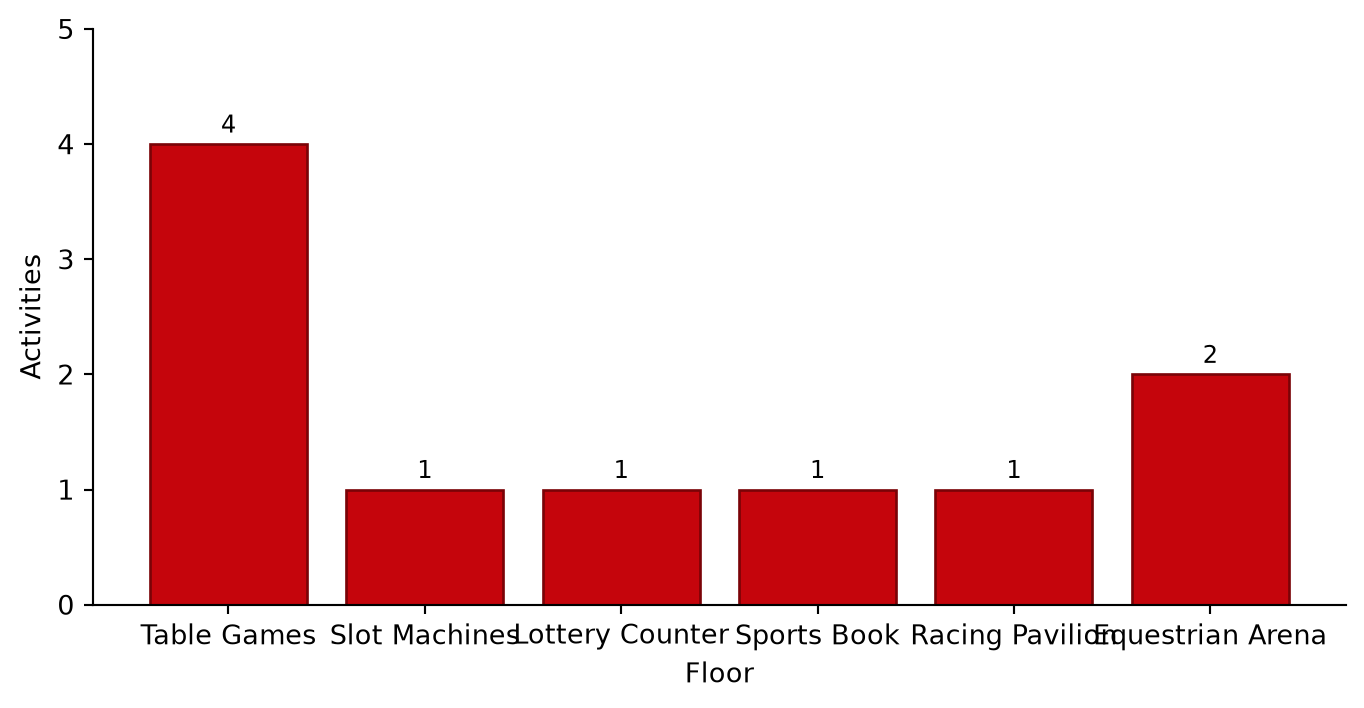
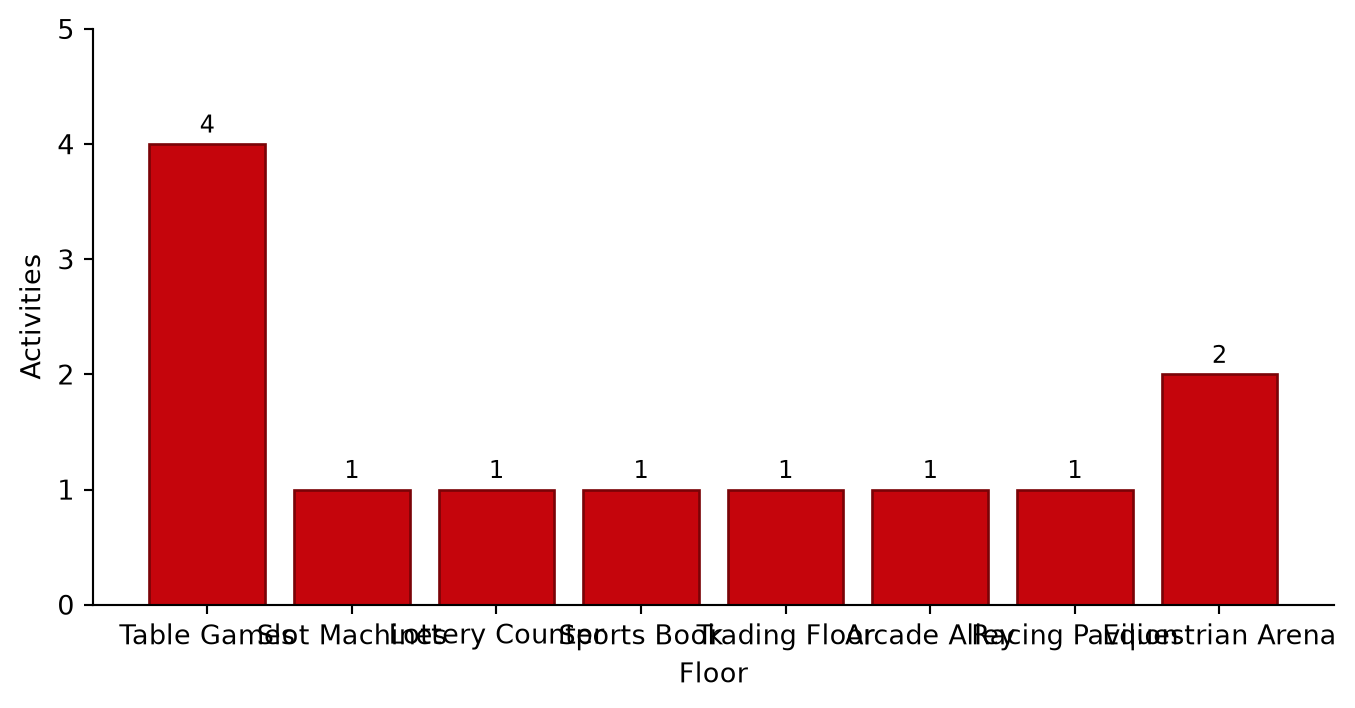
docs: parity pass for Arcade Alley, eight floors, and VIP amenities
Align wiki/docs/Quarto/README with FLOOR_ORDER (eight floors / twelve
activities), add Arcade-Alley wiki page, wire arcade into Quarto, and
document Gentleman's Club, balcony POV, and Phase 8 history. Refresh the
update-docs-parity skill audit for the new catalog.

diff --git a/README.md b/README.md
@@ -41,7 +41,7 @@ python3 -m pytest -v                     # 200+ tests
 
 ### Casino floor
 
-Seven floors, eleven activities, one chip wallet:
+Eight floors, twelve activities, one chip wallet:
 
 | Floor | Activities | Min bet |
 |-------|------------|---------|
@@ -50,6 +50,7 @@ Seven floors, eleven activities, one chip wallet:
 | **Lottery Counter** | Pick 3/4, Mega/Powerball, premium scratchers | Varies (stake-scaled) |
 | **Sports Book** | Scenario board, parlays/futures + prediction markets | 10 chips |
 | **Trading Floor** | Futures & call/put options (NYSE, commodities, crypto) | 25 chips |
+| **Arcade Alley** | CRT cabinets — Strip Cross, Neon Invaders, Breakout, Showgirl Beat | 5 chips |
 | **Racing Pavilion** | Mandalay Racing (thoroughbred sim) | 5 chips |
 | **Equestrian Arena** | Dressage & show jumping | 10 chips |
 
@@ -62,7 +63,7 @@ Beyond the gaming pits:
 - **Cashier** — Buy chips, cash out to your off-strip bank account, view the floor ledger
 - **Off-Strip Bank Account** — Park winnings outside the cage; fund trips from outside income
 - **Staff Manifest** — Editable dealer roster with session overrides
-- **High Limit salon & Foundation Room** — Chip- and tier-gated VIP venues (web)
+- **High Limit salon, Foundation Room & Gentleman's Club** — Chip- and tier-gated VIP venues (web + RPG; Velvet Ledger also on CLI)
 
 ### Resort hotel
 
@@ -70,7 +71,8 @@ Exit the casino floor to the **Mandalay Bay Hotel Experience**:
 
 - **Clerk Carmen** at the front desk — locate reservations, settle overdue charges, upgrade rooms, review folios, checkout, resort dining
 - **Hallway mini-game** — three beats of directional choices to reach your door
-- **In-room amenities** — TV (Shark Reef ch. 47, wave pool cam), sensor-enabled minibar, unlimited foreign calls, balcony decisions, 17 unlockable Vegas vignettes
+- **In-room amenities** — TV (Shark Reef ch. 47, wave pool cam), sensor-enabled minibar, unlimited foreign calls, balcony decisions / suite balcony POV smoke-break, 17 unlockable Vegas vignettes
+- **Gentleman's Club — The Velvet Ledger** — Gold+ / suite key / club phone line; tip storms, stocked bar, minigames, ledger eggs
 - **Guest Directory** — leather-bound lobby guest book with persistent signatures
 - **Real-time day/night cycle** — 2 hours real time = 1 in-game day; daily room/resort/parking charges; rotating check-in requirements (phone, desk, both, or whale net-positive)
 - **MGM Rewards phone** — press **P** in the web app for tier status, comps, reservation locate, and textable staff contacts
@@ -180,6 +182,7 @@ Full docs in [`docs/`](docs/README.md) and on the **[GitHub Wiki](https://github
 | [Lottery](docs/lottery.md) | Pick 3/4, Mega/Powerball, premium scratchers |
 | [Sports Book](docs/sportsbook.md) | Scenario board, parlays, prediction markets |
 | [Trading Floor](docs/trading-floor.md) | Futures & options (NYSE, commodities, crypto) |
+| [Arcade Alley](docs/arcade.md) | CRT cabinets — Strip Cross, Invaders, Breakout, rhythm |
 | [Racing](docs/racing.md) | Thoroughbred + equestrian |
 | [Hotel](docs/hotel.md) / [Pool](docs/pool-complex.md) / [Rewards](docs/mgm-rewards.md) | Resort off the floor |
 | [Architecture](docs/architecture.md) | Packages, data flow, activity system |

diff --git a/wiki/Resort-Hotel.md b/wiki/Resort-Hotel.md
@@ -20,10 +20,11 @@ MGM Rewards tier comps can cover upgrades and room nights. See [[MGM-Rewards|MGM
 
 ## Hotel flow
 
-1. **Front desk (Clerk Carmen)** — locate reservation, settle overdue charges, upgrade rooms, review folios, checkout, **resort dining**
+1. **Front desk (Clerk Carmen)** — locate reservation, settle overdue charges, upgrade rooms, review folios, checkout, **resort dining**. Carmen's desk terminal can complete check-in for phone-only, desk-only, or two-step days (whale days still need a net-positive floor session).
 2. **Room key** — activates as soon as the day's check-in requirement is satisfied, whether the phone or the desk finished it; the desk then offers your hallway or your door directly
-3. **Hallway mini-game** — three beats of directional choices to reach your door (wrong turns are comedic; a dining food coma forces one zig)
-4. **Your room** — TV, minibar, phone, balcony decisions, unlockable Vegas vignettes
+3. **Hallway mini-game** — three beats of directional choices to reach your door (wrong turns are comedic; a dining food coma forces one zig). Reaching the door sets `reachedRoom` and unlocks in-room amenities
+4. **Gentleman's Club — The Velvet Ledger** — opens from Gold+, a suite key, or the club phone line (hotel lobby / amenities)
+5. **Your room** — TV, minibar, phone, balcony decisions, unlockable Vegas vignettes. Foundation Room phone line unlocks from a suite or penthouse (Noir+)
 
 ## Resort dining
 
@@ -37,8 +38,14 @@ Carmen books the three tables that matter: **Aureole**, **Border Grill**, and **
 |---------|------------|
 | **TV** | Shark Reef (ch. 47), wave pool cam, ULTRA Arena boxing, House of Blues (Gold+ tier) |
 | **Minibar** | Sensor-enabled charges; concierge suggests items |
-| **Phone** | Concierge, bookie, Foundation Room (Noir+), spa, Delano |
+| **Phone** | Concierge, bookie, Foundation Room (Noir+), Gentleman's Club / Velvet Ledger (Gold+), spa, Delano |
+| **Gentleman's Club** | Hotel lobby amenity — make it rain, encounters, stocked bar, Tip Cascade / Bottle Memory / Felt Flip, ledger eggs |
+| **Suite balcony POV** | Fullscreen Strip vista smoke-break overlay (suite/penthouse) — take hits, savor the view, step inside |
 | **Decisions** | Balcony, sky bridge to Mandalay Place, suite/penthouse perks, wake-up roulette |
+
+### Suite balcony POV smoke break
+
+From a **Panorama Suite** or **Chairman Penthouse**, stepping onto the balcony opens a fullscreen first-person Strip overlook (haze advances with each hit; step inside to close). Overlay: `docs/js/BalconySmokeOverlay.js`.
 
 ### Unlockable vignettes
 

diff --git a/.cursor/skills/update-docs-parity/SKILL.md b/.cursor/skills/update-docs-parity/SKILL.md
@@ -37,15 +37,15 @@ Topic map and stale-phrase greps: [`reference.md`](reference.md).
 Use these unless code proves otherwise:
 
 1. **Identity:** Full **resort simulator** (CLI + web terminal + pixel RPG) — never “digital casino CLI only.”
-2. **Casino floor:** Match [`mandalay_bay/activities/registry.py`](../../../mandalay_bay/activities/registry.py) `FLOOR_ORDER` / `ALL_ACTIVITIES`. Current: **seven floors, eleven activities** — Table Games (blackjack, Hold'em, roulette, craps), slots, lottery, sports book (+ prediction markets), **Trading Floor**, racing, equestrian.
-3. **Off-floor:** Hotel, resort dining (capacity overlay), pool complex, MGM Rewards, amenities/bars, VIP venues.
+2. **Casino floor:** Match [`mandalay_bay/activities/registry.py`](../../../mandalay_bay/activities/registry.py) `FLOOR_ORDER` / `ALL_ACTIVITIES`. Current: **eight floors, twelve activities** — Table Games (blackjack, Hold'em, roulette, craps), slots, lottery, sports book (+ prediction markets), **Trading Floor**, **Arcade Alley**, racing, equestrian.
+3. **Off-floor:** Hotel (suite balcony POV), resort dining, pool complex, MGM Rewards, amenities/bars, VIP venues (High Limit, Foundation Room, Gentleman's Club / Velvet Ledger).
 4. **RPG branding:** **Pokémon-style** pixel overworld (not “16-bit JRPG”).
 5. **RPG art boot path:** Procedural via `TextureFactory.js` — **no** vendored `assets/tiles/` on the live path; tuxedo-style guest sprites + wardrobe.
 6. **GitHub Pages:** Source = **Deploy from branch → `gh-pages` → `/docs`**. Automatic push/schedule is **disabled**. Prefer [`gh-pages-deploy-loop`](../gh-pages-deploy-loop/); `sync-gh-pages` is legacy.
 7. **Wiki publish:** Manual only — [`sync-github-wiki`](../sync-github-wiki/).
 8. **Posit:** Separate docs manuscript — [`posit-connect-publish`](../posit-connect-publish/). Never overwrite PSYCH 755 id `019f9a10-ebb9-d1d5-839f-97e794bfd0ca`.
-9. **Tests:** Prefer “200+” (count `def test_` in `tests/` if unsure).
-10. **History:** Craps, lottery, Hold'em, prediction markets, Trading Floor, and resort dining are **shipped** (Phases 5–7+). “Ongoing” must not list shipped games.
+9. **Tests:** Prefer “200+” — recount `def test_` under `tests/` when the suite grows (currently 220+).
+10. **History:** Craps, lottery, Hold'em, prediction markets, Trading Floor, dining, Arcade Alley, Gentleman's Club, and balcony POV are **shipped** (Phases 5–8+). “Ongoing” must not list shipped games.
 
 ## Workflow
 

diff --git a/wiki/Arcade-Alley.md b/wiki/Arcade-Alley.md
@@ -1,0 +1,44 @@
+# Arcade Alley
+
+Vegas-styled **classic arcade** cabinets on the web terminal — skill minigames in a fullscreen CRT overlay, without entering the pixel RPG.
+
+## Cabinets
+
+| Game | Classic DNA | Cost | Goal |
+|------|-------------|------|------|
+| **Strip Cross** | Frogger | 5 chips | Cross Las Vegas Blvd to the neon marquee |
+| **Neon Invaders** | Space Invaders | 10 chips | Clear the neon-sign wave |
+| **High-Roller Breakout** | Breakout | 10 chips | Smash the card-suit brick wall |
+| **Showgirl Beat** | Rhythm | 15 chips | Match kick / snare / hat for 5 rounds |
+
+## Overlay
+
+Selecting a cabinet opens a fixed **CRT arcade overlay** (chrome bezel, neon marquee, scanlines, coin insert, LED footer). Keyboard or on-screen controls; **ESC** / EXIT returns to the alley.
+
+Playfields render at **720×840** (2× the CRT aspect) with procedural pixel sprites, multi-frame animations, dithered surfaces, neon shading, and lightweight particle FX — no external image assets. Canvas sampling is nearest-neighbor so the CRT upscale stays crisp.
+
+## Economy
+
+- Play debit counts as a wager (MGM Rewards handle).
+- Skill payouts scale ~0–3× the play cost.
+- **Arcade tickets** from score (`score / 100`, +2 on clear) redeem for small chip packs, a free-spin voucher flag, or a welcome-drink refill.
+
+## Persistence
+
+Tickets, high scores, and redeem flags save in `session.arcade` / `arcadeData`.
+
+## Related
+
+Valet Vic's **Vegas Strip Drive** cabinet in the RPG valet garage is a separate OutRun-lite canvas arcade (no wager) — see [[Pixel-RPG-Simulator]].
+
+## Implementation
+
+| Path | Role |
+|------|------|
+| `docs/js/arcade/ArcadeCabinetOverlay.js` | CRT overlay shell |
+| `docs/js/arcade/games/*.js` | Cabinet games |
+| `docs/js/arcade/gfx/` | Shared display / pixel / anim / fx / sprites |
+| `docs/js/ui/arcade-renderers.js` | Floor UI |
+| `mandalay_bay/activities/arcade.py` | CLI lists cabinets |
+
+See [[Casino-Offerings]] and [[Player-Guide]].

diff --git a/wiki/About-The-Mandalay-Bay.md b/wiki/About-The-Mandalay-Bay.md
@@ -42,12 +42,12 @@ The project riffs on real Vegas mechanics:
 
 | Zone | Highlights |
 |------|------------|
-| **Casino floor** | Table games, slots, lottery, sports book, trading floor, racing, equestrian |
+| **Casino floor** | Table games, slots, lottery, sports book, trading floor, arcade alley, racing, equestrian |
 | **Casino amenities** | Shoppes at Mandalay Place, three bars, intoxication tracking |
 | **Resort dining** | Aureole, Border Grill, Stripsteak — eat/drink capacity minigame + encounters |
-| **Hotel tower** | Front desk, hallway mini-game, in-room TV/phone/minibar |
+| **Hotel tower** | Front desk, hallway mini-game, in-room TV/phone/minibar, suite balcony POV |
 | **Pool complex** | Wave pool, hot tubs, cabanas, beach club, aquarium |
-| **VIP venues** | High Limit salon, Foundation Room (chip- and tier-gated) |
+| **VIP venues** | High Limit salon, Foundation Room, Gentleman's Club / Velvet Ledger (chip- and tier-gated) |
 
 ## Tone
 
@@ -64,10 +64,11 @@ The project began as a digital blackjack CLI and grew into a multi-surface resor
 5. **Phase 5** — Craps, lottery counter, no-limit Hold'em, prediction markets
 6. **Phase 6** — Trading Floor (Mandalay Markets), stored sports/prediction scenario DBs
 7. **Phase 7** — Resort dining overlays (capacity minigame, drink-scaled encounters) with CLI/RPG parity
-8. **Ongoing** — Art polish, new resort vignettes, and market catalog expansion
+8. **Phase 8** — Arcade Alley CRT cabinets, Vegas Strip Drive, Gentleman's Club, suite balcony POV
+9. **Ongoing** — Art polish, new resort vignettes, and market catalog expansion
 
 ## See also
 
-- [[Casino-Offerings|Casino Offerings]] — Full activity catalog
-- [[Pixel-RPG-Simulator|Pixel RPG]] — Overworld design
-- [Architecture](architecture.md) — Technical overview
+- [[Casino-Offerings]] — Full activity catalog
+- [[Pixel-RPG-Simulator]] — Overworld design
+- [[Architecture]] — Technical overview

diff --git a/.cursor/skills/update-docs-parity/reference.md b/.cursor/skills/update-docs-parity/reference.md
@@ -18,6 +18,7 @@
 | `Lottery-Counter.md` | `docs/lottery.md` |
 | `Sports-Book-and-Prediction-Markets.md` | `docs/sportsbook.md` |
 | `Trading-Floor.md` | `docs/trading-floor.md` |
+| `Arcade-Alley.md` | `docs/arcade.md` |
 | `Racing-and-Equestrian.md` | `docs/racing.md` |
 | `Resort-Hotel.md` | `docs/hotel.md` |
 | `Resort-Dining.md` | `docs/dining.md` |
@@ -34,7 +35,7 @@
 
 Authoritative source: `mandalay_bay/activities/registry.py` (`FLOOR_ORDER`, `ALL_ACTIVITIES`).
 
-Seven floors, eleven activities, one chip wallet:
+Eight floors, twelve activities, one chip wallet:
 
 | Floor | Activities | Min bet |
 |-------|------------|---------|
@@ -43,6 +44,7 @@ Seven floors, eleven activities, one chip wallet:
 | Lottery Counter | Pick 3, Pick 4, Mega draw, scratchers | Varies |
 | Sports Book | Scenario board, parlays/futures + prediction markets | 10 |
 | Trading Floor | Futures & call/put options (NYSE, commodities, crypto) | 25 |
+| Arcade Alley | CRT cabinets — Strip Cross, Neon Invaders, Breakout, Showgirl Beat | 5 |
 | Racing Pavilion | Mandalay Racing (thoroughbred) | 5 |
 | Equestrian Arena | Dressage, show jumping | 10 |
 
@@ -61,7 +63,7 @@ These should not appear as *current* guidance (About may keep historical “Phas
 | Phrase / claim | Replace with |
 |----------------|--------------|
 | digital casino CLI (as sole identity) | digital resort simulator (CLI + web + RPG) |
-| Five floors, eight activities / Six floors, ten activities | Seven floors, eleven activities (incl. Trading Floor) |
+| Five/six/seven-floor catalogs that omit Arcade Alley | Eight floors, twelve activities (match `FLOOR_ORDER`) |
 | Phase 1 pixel RPG (as current GDD label) | Phases 1–6 complete / overworld design |
 | 16-bit JRPG–style | Pokémon-style pixel overworld |
 | EnvironmentTextures / assets/tiles live path | TextureFactory.js procedural boot path |

diff --git a/wiki/Casino-Offerings.md b/wiki/Casino-Offerings.md
@@ -88,7 +88,7 @@ Mandalay Markets — long-only futures and call/put options on NYSE equities, co
 
 Vegas-styled classic arcade cabinets in a fullscreen CRT overlay — skill play for chips and redeemable tickets, without entering the pixel RPG.
 
-→ [Arcade Alley](arcade.md)
+→ [[Arcade-Alley]]
 
 ## Racing Pavilion
 
@@ -114,16 +114,17 @@ Thoroughbred sim with win/place/show wagering. Real horse names, strength-based 
 | **Casino Floor — shopping & bars** | Mandalay Place sky bridge, three bars, intoxication |
 | **Resort Dining** | Aureole, Border Grill, Stripsteak — capacity minigame + drink-scaled encounters |
 | **Staff Manifest** | Editable dealer roster with session overrides |
-| **High Limit salon** | Chip-gated VIP tables (web) |
-| **Foundation Room** | Tier-gated lounge (web + RPG) |
+| **High Limit salon** | Chip-gated VIP venue (web + RPG) — private shoe tables, salon-only slots, whale sports desk |
+| **Foundation Room** | Noir+ lounge (web + RPG) — host whisper, Foundation edible |
+| **Gentleman's Club** | Velvet Ledger (web + RPG + CLI) — make it rain, encounters, stocked bar, Tip Cascade / Bottle Memory / Felt Flip; Gold+, suite key, or club phone line |
 
-→ [[Resort-Dining|Resort Dining]]
+→ [[Resort-Dining|Resort Dining]] · [[Resort-Hotel|Resort Hotel]]
 
 ## Resort (off the floor)
 
 | Zone | Highlights |
 |------|------------|
-| **Hotel** | Front desk, hallway mini-game, 17 room vignettes, dining overlay entry |
+| **Hotel** | Front desk, hallway mini-game, 17 room vignettes, dining overlay, suite balcony Strip POV smoke-break, Velvet Ledger |
 | **Pool complex** | Wave pool, cabanas, Shark Reef, beach club |
 | **MGM Rewards** | Tier progression, comps, phone hotline |
 

diff --git a/docs/about.md b/docs/about.md
@@ -42,7 +42,7 @@ The project riffs on real Vegas mechanics:
 
 | Zone | Highlights |
 |------|------------|
-| **Casino floor** | Table games, slots, lottery, sports book, trading floor, racing, equestrian |
+| **Casino floor** | Table games, slots, lottery, sports book, trading floor, arcade alley, racing, equestrian |
 | **Casino amenities** | Shoppes at Mandalay Place, three bars, intoxication tracking |
 | **Resort dining** | Aureole, Border Grill, Stripsteak — eat/drink capacity minigame + encounters |
 | **Hotel tower** | Front desk, hallway mini-game, in-room TV/phone/minibar |
@@ -64,7 +64,8 @@ The project began as a digital blackjack CLI and grew into a multi-surface resor
 5. **Phase 5** — Craps, lottery counter, no-limit Hold'em, prediction markets
 6. **Phase 6** — Trading Floor (Mandalay Markets), stored sports/prediction scenario DBs
 7. **Phase 7** — Resort dining overlays (capacity minigame, drink-scaled encounters) with CLI/RPG parity
-8. **Ongoing** — Art polish, new resort vignettes, and market catalog expansion
+8. **Phase 8** — Arcade Alley CRT cabinets, Vegas Strip Drive, Gentleman's Club, suite balcony POV
+9. **Ongoing** — Art polish, new resort vignettes, and market catalog expansion
 
 ## See also
 

diff --git a/wiki/Home.md b/wiki/Home.md
@@ -27,6 +27,7 @@ See [[Access-Points]] for full details on every surface.
 - [[Casino-Offerings]] — Every floor, activity, and amenity on property
 - [[MGM-Rewards]] — Tier progression, comps, and perks
 - [[Resort-Hotel]] — Check-in, rooms, amenities, and day/night cycle
+- [[Resort-Dining]] — Aureole, Border Grill, Stripsteak capacity overlay
 - [[Pool-Complex]] — 11-acre pool expansion, Shark Reef, beach club
 
 ---
@@ -46,6 +47,7 @@ See [[Access-Points]] for full details on every surface.
 - [[Lottery-Counter]]
 - [[Sports-Book-and-Prediction-Markets]]
 - [[Trading-Floor]]
+- [[Arcade-Alley]]
 - [[Racing-and-Equestrian]]
 
 ---

diff --git a/CHANGELOG.md b/CHANGELOG.md
@@ -40,7 +40,7 @@ and this project adheres to [Semantic Versioning](https://semver.org/spec/v2.0.0
 - Slot machines **remember last bet amount**; roulette shows **animated spin history** (#66)
 - **Texas Hold'em** — full street flow, no-limit raises, 5-max table (#65)
 - GitHub Pages deploy switched to **manual skill loop**; automatic workflow disabled (#72, #79)
-- **Documentation parity** across wiki, Quarto `docs/`, and README — seven floors, eleven activities (#102, #107)
+- **Documentation parity** across wiki, Quarto `docs/`, and README — floor catalog kept aligned with `FLOOR_ORDER` (#102, #107)
 
 ### Fixed
 

diff --git a/wiki/MGM-Rewards.md b/wiki/MGM-Rewards.md
@@ -31,6 +31,7 @@ Comps can cover hotel upgrades, room nights, and late checkout.
 | Perk | Gated by |
 |------|----------|
 | TV channels (House of Blues, etc.) | Gold+ |
+| Gentleman's Club / Velvet Ledger | Gold+ (or suite key / club phone line) |
 | Foundation Room phone line | Noir+ |
 | Express checkout | Pearl+ |
 | Resort fee reduction | Platinum+ |

diff --git a/wiki/_Sidebar.md b/wiki/_Sidebar.md
@@ -29,6 +29,7 @@
 - [[Lottery-Counter]]
 - [[Sports-Book-and-Prediction-Markets]]
 - [[Trading-Floor]]
+- [[Arcade-Alley]]
 - [[Racing-and-Equestrian]]
 
 ### 🕹 Pixel RPG
